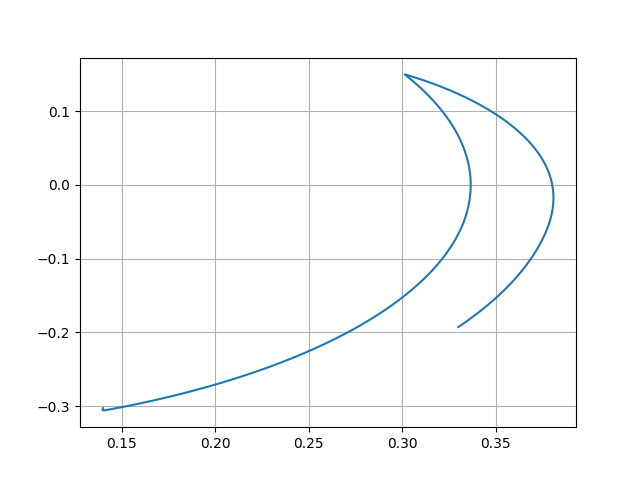
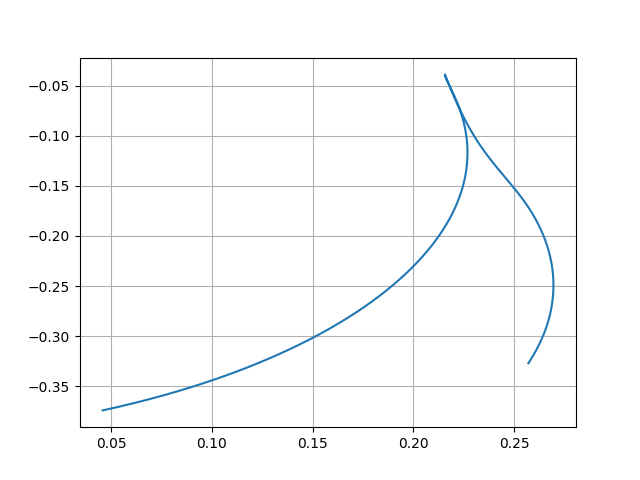
Implemented circle tool

diff --git a/layout/main.js b/layout/main.js
@@ -50,10 +50,8 @@ function js_log(msg) {
 eel.expose(js_get_data);
 function js_get_data() {
     var temp = [];
-    //console.log("SENT DATA:");
     for (var p of points) {
         temp.push(p.actual);
-        //console.log(p);
     }
     points = []; //empty the array
     draw_background(); // REMOVED FOR DEBUG PURPOSES
@@ -129,53 +127,16 @@ function find_circ(){
     var r = k.sub(a).mag()/2;
     var c = a.add(k.sub(a).scale(0.5))
 
-    var x_a = a.relX;
-    var y_a = a.relY;
-    var x_b = b.relX;
-    var y_b = b.relY;
-    var x_c = c.relX;
-    var y_c = c.relY;
-
-    var dx = x_a-x_b;
-    var dy = y_a-y_b;
-    
-    var m = dy/dx;
-    var q = y_b-m*x_b;
-
-    // (x-x_c)^2+(y-y_c)^2 = r^2
-    // y = mx+q
-
-    var A = 1 + m*m;
-    var B = 2*m*q - 2*x_c - 2*m*y_c;
-    var C = x_c*x_c + y_c*y_c + q*q - r*r - 2*q*y_c;
-
-    // Ax^2+Bx+C = 0 
-
-    console.log(m,y_b, x_b,A, B, C);
-
-    var delta = B*B-4*A*C;
-    if(delta <= 0){
-        // TODO: SHOW RED CIRCUMFERENCE -> potrebbe non essere qui che va implementato
-    }
-
-    var x1 = (-B+Math.sqrt(delta))/2*A;
-    var y1 = m*x1+q;
-    var x2 = (-B-Math.sqrt(delta))/2*A;
-    var y2 = m*x2+q;
-
-    console.log(a, x1,y1,x2,y2);
-
-    if(x1 == a.relX && y1 == a.relY) p = new Point(x2, y2, settings);
-    else p = new Point(x1, y1, settings);
-
-    console.log(p);
+    p = c.add(b.sub(c).set(r));
 
     var v1 = c.sub(a);
     var v2 = c.sub(p);
-    // use a and p to find the angle
-    arc = Math.acos((v1.relX*v2.relX+v1.relY*v2.relY)/(v1.mag()*v2.mag()));
+    //arc = Math.acos((v1.relX*v2.relX+v1.relY*v2.relY)/(v1.mag()*v2.mag()));
 
-    return [a, p, r, arc];
+    var theta_0 = v1.angle()+Math.PI;
+    var theta_1 = v2.angle()+Math.PI;
+
+    return [c, p, r, theta_0, theta_1];
 }
 
 function handle_input(e) {
@@ -192,7 +153,9 @@ function handle_input(e) {
     if(tool == line_tool){
         circle_definition = []; // empty the circle_definition array to avoid having problems when the circle tool is selected afterwards
         points.push(new Point(x,y, settings));
-        if(n > 0) traj.add_line(points[n-2], points[n-1], 0);
+        n +=1;
+        if(n > 1) traj.add_line(points[n-2], points[n-1], 0);
+        //if(n == 0) traj.add_line(null, points[n-1], 0);
     }else
     if(tool == circle_tool){
         if(n == 0){
@@ -201,9 +164,9 @@ function handle_input(e) {
         else{
             circle_definition.push(new Point(x,y, settings))
             if(circle_definition.length == 2){
-                var a, p, r, arc;
-                [a, p, r, arc] = find_circ();
-                traj.add_circle(a, r, arc, 0);
+                var c, p, r, theta_0, theta_1;
+                [c, p, r, theta_0, theta_1] = find_circ();
+                traj.add_circle(c, r, theta_0, theta_1, 0);
                 points.push(p);
                 circle_definition = [];
             }
@@ -270,7 +233,7 @@ function circle_tool(){
             ctx.beginPath();
             ctx.strokeStyle = "#00000077";
             ctx.lineWidth = 3;
-            ctx.moveTo(a.relX, a.relY);
+            ctx.moveTo(c.relX, c.relY);
             ctx.lineTo(b.relX, b.relY);
             ctx.stroke();
             ctx.closePath();
@@ -285,6 +248,7 @@ function circle_tool(){
 function draw_loop(){
     draw_background();
     for(var p of points) draw_point(p.relative['x'], p.relative['y']);
+    traj.draw(ctx);
     man.draw_pose(ctx);
     man.draw_traces(ctx);
     // draw the ui

diff --git a/layout/manipulator.js b/layout/manipulator.js
@@ -164,6 +164,28 @@ class Point{
         result.relY = rho*Math.sin(theta);
         return result;
     }
+
+    rot(delta){
+        var result = new Point(0, 0, this.settings);
+        var rho = this.mag();
+        var theta = Math.atan2(this.relY, this.relX) + delta;
+        result.relX = rho*Math.cos(theta);
+        result.relY = rho*Math.sin(theta);
+        return result;
+    }
+
+    set(scalar){
+        var result = new Point(0, 0, this.settings);
+        var rho = scalar;
+        var theta = Math.atan2(this.relY, this.relX);
+        result.relX = rho*Math.cos(theta);
+        result.relY = rho*Math.sin(theta);
+        return result;
+    }
+
+    angle(){
+        return Math.atan2(this.relY, this.relX);
+    }
 }
 
 class Trajectory{
@@ -175,7 +197,35 @@ class Trajectory{
         this.data.push({'type':'line', 'data':[p0, p1, raised]}) // start and end point
     }
 
-    add_circle(p0, r, arc, raised){
-        this.data.push({'type':'circle', 'data': [p0, r, arc, raised]}) // point and diameter
+    add_circle(c, r, theta_0, theta_1, raised){
+        this.data.push({'type':'circle', 'data': [c, r, theta_0, theta_1, raised]}) // point and diameter
+    }
+
+    draw(ctx){
+        for(var traj of this.data){
+            if(traj.type == 'line'){
+                ctx.beginPath();
+                ctx.lineWidth = 3;
+                ctx.strokeStyle = "#000000";
+                ctx.moveTo(traj.data[0].relX, traj.data[0].relY);
+                ctx.lineTo(traj.data[1].relX, traj.data[1].relY);
+                ctx.stroke();
+                ctx.closePath();
+            }else if(traj.type == 'circle'){
+                var c, r, theta_0, theta_1;
+                c = traj.data[0];
+                r = traj.data[1];
+                theta_0 = traj.data[2];
+                theta_1 = traj.data[3];
+                ctx.beginPath();
+                ctx.lineWidth = 3;
+                ctx.strokeStyle = "#000000";
+                var cw = Math.abs(theta_1-theta_0) < Math.PI && (theta_1 > theta_0); // clockwise
+                ctx.arc(c.relX, c.relY, r, theta_0, theta_1, !cw)
+
+                ctx.stroke();
+                ctx.closePath();
+            }
+        }
     }
 }

diff --git a/TODO.MD b/TODO.MD
@@ -1,9 +1,12 @@
 # TODO:
 
-* [ ] add circle tool;
+* [x] add circle tool;
 * [ ] add third trajectory;
 * [ ] add slicing trajectory -> from line and circle, create set of points;
 * [x] solve "trajectory not going where it should" problem;
-* [ ] wryyyyyyyyyyyyyyyyyyyy;
+* [x] wryyyyyyyyyyyyyyyyyyyy;
 * [ ] refactor and comment;
 * [x] add to point class add and sub method to implement line and circle trajectories;
+
+
+* [ ] reimplement the spline3 method to use the final time formula from the cycloidal trajectory;
